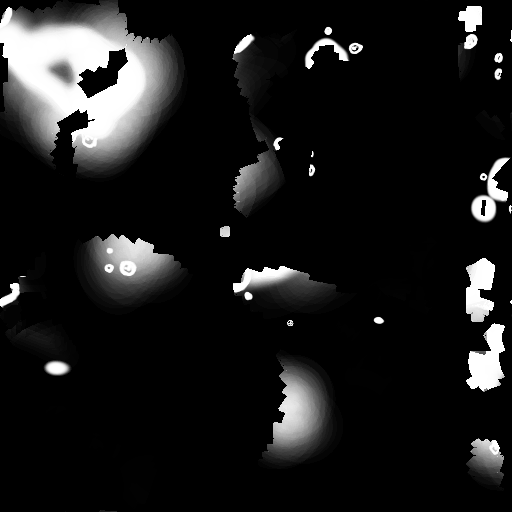
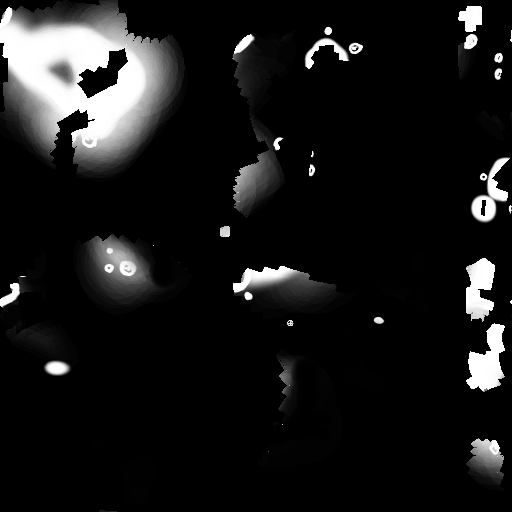
Rebaked everything again

Changed region(s): [[0.5, 0.6875, 0.6562, 0.9062], [0.1875, 0.4375, 0.375, 0.5625]]

diff --git a/src/components/experience.tsx b/src/components/experience.tsx
@@ -14,9 +14,16 @@ import "./day-night-material";
 import SkySettings from "./sky-settings";
 import LightSettings from "./light-settings";
 import CloudSettings from "./cloud-settings";
+import { useFrame, useThree } from "@react-three/fiber";
 // import { EffectComposer, Bloom } from "@react-three/postprocessing";
 
 export default function Experience() {
+  const { camera } = useThree();
+
+  useFrame(() => {
+    console.log(camera.position);
+  });
+
   return (
     <>
       <SkySettings />
@@ -34,8 +41,8 @@ export default function Experience() {
       </EffectComposer> */}
 
       <OrbitControls
-        minPolarAngle={Math.PI * 0.4}
-        maxPolarAngle={Math.PI * 0.5}
+        minPolarAngle={Math.PI * 0.45}
+        maxPolarAngle={Math.PI * 0.55}
         enableZoom={false}
         makeDefault={true}
         enablePan={false}

diff --git a/src/components/day-night-material/index.tsx b/src/components/day-night-material/index.tsx
@@ -7,6 +7,8 @@ import { shaderMaterial } from "@react-three/drei";
 type DayNightMaterialProps = {
   uDayDiffuse: THREE.Texture | null;
   uNightDiffuse: THREE.Texture | null;
+  uShadowMap?: THREE.Texture | null;
+  uHasShadowMap?: boolean;
   uTransitionFactor: number;
   color: THREE.Color;
 };
@@ -14,6 +16,8 @@ type DayNightMaterialProps = {
 const defaultDayNightUniforms: DayNightMaterialProps = {
   uDayDiffuse: null,
   uNightDiffuse: null,
+  uShadowMap: null,
+  uHasShadowMap: false,
   uTransitionFactor: 0,
   color: new THREE.Color(1, 1, 1),
 };

diff --git a/src/components/grass.tsx b/src/components/grass.tsx
@@ -406,6 +406,8 @@ export default function Grass() {
           ref={hillMaterialRef}
           uDayDiffuse={bakedTexture}
           uNightDiffuse={bakeNightTexture}
+          uShadowMap={hillPatchesTexture}
+          uHasShadowMap={!!hillPatchesTexture}
           color={"#aaaaaa"}
         />
       </mesh>

diff --git a/src/components/castle.tsx b/src/components/castle.tsx
@@ -5,7 +5,7 @@ export default function Castle() {
   return (
     <Canvas
       camera={{
-        position: [146, 10, 39],
+        position: [139, -23, 55],
         fov: 45,
         near: 0.1,
         far: 1000,
